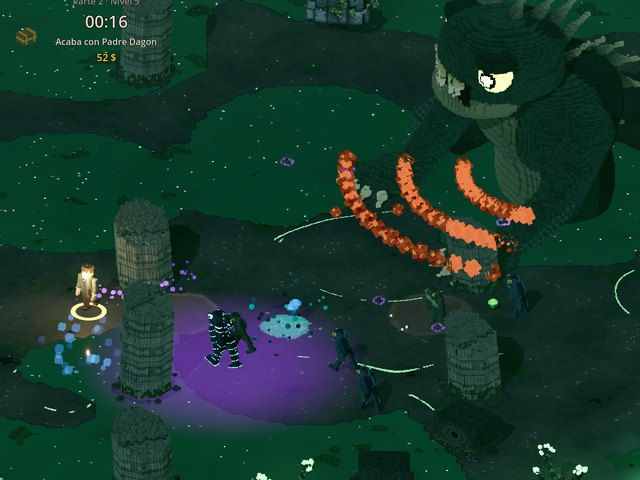
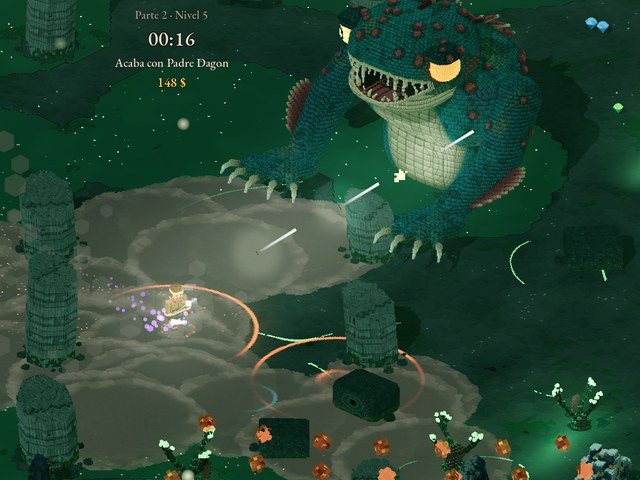
Ideas pendientes técnicas. tools/marcas.py: --juntar pone los registros de varios PC en una lista por hora, con los relojes igualados por las marcas comunes (mediana), --todo la lista entera, aviso de los registros sin «Fin de la sesión» y la captura de cada marca. La marca (F9, LB+RB) guarda una ca

diff --git a/tools/marcas.py b/tools/marcas.py
@@ -1,19 +1,36 @@
 """Marcas de los registros de red (F9 o LB+RB en partida), con las líneas de alrededor.
 
 Para revisar una prueba online: cada marca sale con unas líneas de antes (estado de la partida
-cada 5 s, paradas, quién entra o se va) y de después, fichero a fichero.
+cada 5 s, paradas, quién entra o se va) y de después, fichero a fichero. Avisa de los registros
+que no acaban en «Fin de la sesión» (el juego se cerró de golpe o sigue abierto) y dice dónde
+está la captura de cada marca, si la hay.
+
+Con --juntar, los registros de varios PC salen en una sola lista ordenada por hora, cada línea
+con la letra de su fichero. Los relojes de dos PC no van iguales: la diferencia se saca de las
+marcas, que se apuntan en todos («marca 3 del jugador · p1_n2 1:05» en uno y «marca 3 de Ana ·
+p1_n2 1:05» en el otro), y se corrige.
 
 Uso (desde la raíz):
     python tools/marcas.py                      # los registros de este PC (user://logs/red)
     python tools/marcas.py red_2026-10-23_*.log # los que te pasen (los de otro PC, por ejemplo)
     python tools/marcas.py --antes 12 --despues 6
+    python tools/marcas.py --juntar mio.log suyo.log          # los dos PC en una lista
+    python tools/marcas.py --juntar --todo mio.log suyo.log   # entera, no solo alrededor de las marcas
 """
 import argparse
+import datetime as dt
 import glob
 import os
+import re
+import statistics
 import sys
 
 APP = "Lovecraft Bullet Hell"
+END = "Fin de la sesión"
+LINE = re.compile(r"^\[(\d\d):(\d\d):(\d\d)\] (.*)$")
+STAMP = re.compile(r"red_(\d{4})-(\d\d)-(\d\d)_(\d\d)-(\d\d)-(\d\d)")
+# "marca 3 del jugador · p1_n2 1:05" (en su PC) o "marca 3 de Ana · p1_n2 1:05 (aquí: …)" (en los demás)
+MARK = re.compile(r"^marca (\d+) (?:del jugador|de .+?) · (.+?)(?: \(aquí: .*\))?$")
 
 
 def default_dir() -> str:
@@ -27,9 +44,63 @@ def default_dir() -> str:
 
 
 def is_mark(line: str) -> bool:
-    # "[hh:mm:ss] marca 3 del jugador · p1_n2 1:05" o "[...] marca 1 de Ana · ..."
     text = line.split("] ", 1)[-1]
     return text.startswith("marca ")
+
+
+def shot_of(path: str, line: str) -> str:
+    """Captura de una marca (la guarda el juego junto al registro: <registro>_marca_N.png)."""
+    m = MARK.match(line.split("] ", 1)[-1])
+    if not m or "del jugador" not in line:
+        return ""
+    p = "%s_marca_%s.png" % (os.path.splitext(path)[0], m.group(1))
+    return os.path.normpath(p) if os.path.exists(p) else ""
+
+
+def ended(lines: list) -> bool:
+    return any(END in l for l in lines[-3:])
+
+
+def parse(path: str) -> list:
+    """[(hora, texto, línea entera)]: la fecha sale del nombre del fichero y pasa de día si la hora vuelve atrás."""
+    with open(path, encoding="utf-8", errors="replace") as f:
+        lines = f.read().splitlines()
+    m = STAMP.search(os.path.basename(path))
+    day = dt.datetime(*map(int, m.groups())) if m else dt.datetime(2000, 1, 1)
+    day = day.replace(hour=0, minute=0, second=0)
+    out = []
+    prev = None
+    for l in lines:
+        lm = LINE.match(l)
+        if not lm:
+            continue
+        t = day + dt.timedelta(hours=int(lm.group(1)), minutes=int(lm.group(2)), seconds=int(lm.group(3)))
+        if prev is not None and t < prev - dt.timedelta(hours=1):     # medianoche
+            day += dt.timedelta(days=1)
+            t += dt.timedelta(days=1)
+        prev = t
+        out.append((t, lm.group(4), l))
+    return out
+
+
+def context(rows: list, before: int, after: int, mark_of) -> None:
+    marks = [i for i, r in enumerate(rows) if mark_of(r)]
+    shown = -1
+    for i in marks:
+        lo = max(i - before, shown + 1)
+        if lo > shown + 1 and shown >= 0:
+            print("   ...")
+        for k in range(lo, min(i + after + 1, len(rows))):
+            if k <= shown:
+                continue
+            yield_line(rows[k], mark_of(rows[k]))
+            shown = k
+
+
+def yield_line(row, marked: bool) -> None:
+    print((">> " if marked else "   ") + row[0])
+    if marked and row[1]:
+        print("      captura: " + row[1])
 
 
 def show(path: str, before: int, after: int) -> int:
@@ -39,18 +110,54 @@ def show(path: str, before: int, after: int) -> int:
     if not marks:
         return 0
     print(f"=== {os.path.basename(path)}  ({lines[0] if lines else ''})")
-    shown = -1
-    for i in marks:
-        lo = max(i - before, shown + 1)
-        if lo > shown + 1 and shown >= 0:
-            print("   ...")
-        for k in range(lo, min(i + after + 1, len(lines))):
-            if k <= shown:
-                continue
-            print((">> " if is_mark(lines[k]) else "   ") + lines[k])
-            shown = k
+    rows = [(l, shot_of(path, l)) for l in lines]
+    context(rows, before, after, lambda r: is_mark(r[0]))
     print()
     return len(marks)
+
+
+def offset(base: list, other: list) -> tuple:
+    """Cuánto hay que sumar a la hora de `other` para que vaya con `base`, y con cuántas marcas."""
+    def keys(rows):
+        d = {}
+        for t, text, _ in rows:
+            m = MARK.match(text)
+            if m:
+                d.setdefault((m.group(1), m.group(2)[:24]), t)
+        return d
+    a, b = keys(base), keys(other)
+    diffs = [(a[k] - b[k]).total_seconds() for k in a if k in b]
+    if not diffs:
+        return 0.0, 0
+    return statistics.median(diffs), len(diffs)
+
+
+def merge(files: list, before: int, after: int, everything: bool) -> None:
+    parsed = [parse(f) for f in files]
+    letters = [chr(ord("A") + i) for i in range(len(files))]
+    for i, f in enumerate(files):
+        head = parsed[i][0][1] if parsed[i] else ""
+        line = f"{letters[i]}: {os.path.basename(f)}  ({head})"
+        if i > 0:
+            off, n = offset(parsed[0], parsed[i])
+            if n:
+                parsed[i] = [(t + dt.timedelta(seconds=off), x, l) for t, x, l in parsed[i]]
+                line += f"  · reloj corregido {off:+.0f} s (por {n} marca{'s' if n != 1 else ''})"
+            else:
+                line += "  · sin marcas en común: horas tal cual (los relojes pueden no coincidir)"
+        print(line)
+    print()
+    rows = []
+    for i, p in enumerate(parsed):
+        for t, text, l in p:
+            rows.append((t, i, f"{letters[i]} {t:%H:%M:%S} {text}", shot_of(files[i], l)))
+    rows.sort(key=lambda r: (r[0], r[1]))
+    flat = [(r[2], r[3]) for r in rows]
+    if everything:
+        for r in flat:
+            yield_line(r, " marca " in r[0][:16])
+    else:
+        context(flat, before, after, lambda r: r[0].split(" ", 2)[2].startswith("marca "))
 
 
 def main() -> None:
@@ -60,6 +167,8 @@ def main() -> None:
     ap.add_argument("files", nargs="*", help="registros (por defecto, todos los de este PC)")
     ap.add_argument("--antes", type=int, default=8, help="líneas antes de cada marca (8)")
     ap.add_argument("--despues", type=int, default=3, help="líneas después de cada marca (3)")
+    ap.add_argument("--juntar", action="store_true", help="los registros de varios PC en una lista por hora")
+    ap.add_argument("--todo", action="store_true", help="con --juntar, la lista entera")
     a = ap.parse_args()
     files = []
     for f in a.files:
@@ -70,13 +179,23 @@ def main() -> None:
         if not files:
             print(f"No hay registros en {d}")
             return
-    total = 0
-    with_marks = 0
+    unfinished = []
     for f in files:
-        n = show(f, a.antes, a.despues)
-        total += n
-        with_marks += n > 0
-    print(f"{total} marcas en {with_marks} de {len(files)} registros")
+        with open(f, encoding="utf-8", errors="replace") as fh:
+            if not ended(fh.read().splitlines()):
+                unfinished.append(os.path.basename(f))
+    if a.juntar:
+        merge(files, a.antes, a.despues, a.todo)
+    else:
+        total = 0
+        with_marks = 0
+        for f in files:
+            n = show(f, a.antes, a.despues)
+            total += n
+            with_marks += n > 0
+        print(f"{total} marcas en {with_marks} de {len(files)} registros")
+    for f in unfinished:
+        print(f"Aviso: {f} no acaba en «{END}»: el juego se cerró de golpe (o sigue abierto).")
 
 
 if __name__ == "__main__":

diff --git a/CLAUDE.md b/CLAUDE.md
@@ -239,7 +239,7 @@ Tus imágenes en `resources/PantallasMenus/`: `fondo_titulo_sin_texto_1080p_defi
   - Guarda en un fichero temporal y lo renombra, para no dejar una partida a medias si el juego se cierra a mitad.
   - `SaveData` tiene número de versión y `migrate()`: si cambias el formato, sube `VERSION` y añade el paso de migración.
   - La partida guarda al caer, al superar el nivel, al reiniciar y al salir. Sin hueco elegido (arrancando la partida directamente) no se guarda nada.
-- **Nube** (`scripts/cloud/`, fase 10, D-11): copia de los tres huecos y los controles en un gist secreto del jugador. `GitHubGist` habla con GitHub (flujo por dispositivo y gists; transporte `CloudHttp`, cambiable por uno falso); el autoload `Cloud` guarda token, usuario, gist e id del PC en `user://cloud.json`, sincroniza (`sync`) por revisiones (`SaveData.rev` y `cloud_base`, `CloudSync.decide`: subir, bajar, borrar en la nube o conflicto), sube solo a los 2 s de cada guardado (`Saves.saved`, `Settings.controls_changed`) sin bajar nada encima del hueco en uso, y resuelve conflictos (`resolve`, que guarda aparte la partida descartada con `Saves.backup` en `slot_N.descartada_<fecha>.json`). Menús: pestaña Nube en Configuración, `CloudConnectMenu` (con un QR de la página, `QrCode` en `scripts/ui/qr_code.gd`), `CloudConflictMenu`, «Ver la copia en GitHub» (`Cloud.gist_url`) y estado en cada hueco. `client_id` en `data/cloud.json`. Pruebas: `cloud_check cloud_token=$(gh auth token) cloud_marker=lovecraft_prueba.json cloud_delete=true` contra GitHub y `cloud_demo=conectado|codigo|conflicto` para capturas sin red. Guía en `docs/GUARDADO_NUBE.md`.
+- **Nube** (`scripts/cloud/`, fase 10, D-11): copia de los tres huecos y los controles en un gist secreto del jugador. `GitHubGist` habla con GitHub (flujo por dispositivo y gists; transporte `CloudHttp`, cambiable por uno falso); el autoload `Cloud` guarda token, usuario, gist e id del PC en `user://cloud.json`, sincroniza (`sync`) por revisiones (`SaveData.rev` y `cloud_base`, `CloudSync.decide`: subir, bajar, borrar en la nube o conflicto), sube solo a los 2 s de cada guardado (`Saves.saved`, `Settings.controls_changed`) sin bajar nada encima del hueco en uso, y resuelve conflictos (`resolve`, que guarda aparte la partida descartada con `Saves.backup` en `slot_N.descartada_<fecha>.json`). Menús: pestaña Nube en Configuración, `CloudConnectMenu` (con un QR de la página, `QrCode` en `scripts/ui/qr_code.gd`), `CloudConflictMenu`, «Ver la copia en GitHub» (`Cloud.gist_url`) y estado en cada hueco. `client_id` en `data/cloud.json`. Pruebas: `cloud_check cloud_token=$(gh auth token) cloud_marker=lovecraft_prueba.json cloud_delete=true` contra GitHub y `cloud_demo=conectado|codigo|conflicto|bajadas` para capturas sin red. Guía en `docs/GUARDADO_NUBE.md`.
 - **Dispositivos y sesión:**
   - `Devices` (autoload en `scripts/input/device_manager.gd`) guarda el último dispositivo usado (`KEYBOARD` = −1, o el número del mando), avisa al conectar o desconectar un mando, crea la entrada de partida de un dispositivo (`make_input`) y define los colores de los jugadores (`COLORS`).
   - `GameSession` (estático, en `scripts/core/game_session.gd`) lleva de los menús a la partida quién juega (dispositivo, GUID, personaje y compañero) y en qué nivel. Vacía, la partida usa sus opciones de siempre.
@@ -258,7 +258,7 @@ Tus imágenes en `resources/PantallasMenus/`: `fondo_titulo_sin_texto_1080p_defi
   - `SlotMenu` (huecos), `MainMenu` (menú principal y ventana de Jugar) y `SettingsMenu` (pestañas).
   - `OptionRow` (`scripts/ui/`): fila con valor que se cambia con izquierda/derecha. La usan la configuración y la depuración.
   - La portada (`TitleScreen`) lleva el flujo: presentación, huecos y menú principal. `TitleScreen.skip_to_menu` hace que, al volver de la partida, entre directamente en el menú.
-- **Red** (`scripts/net/`, fase 9): `NetSession` (autoload `Net`) lleva la sala con ENet: anfitrión con autoridad, hasta 3 clientes, mensajes de bytes propios (`Net.send`, tipos desde `NetSession.USER`; sube `PROTOCOL` al cambiar cualquiera), lista de conectados con ping y versión (`application/config/version`, en el menú principal, la pausa y la sala, que no deja empezar si no coincide y avisa si el ping pasa de 250 ms; `sh tools/exportar.sh` pregunta si subirla: súbela en cada build que se reparta). `RoomCode` pasa IP y puerto a un código de 8 letras; `UpnpHelper` abre el puerto en el router. Menú en `scripts/menus/online_menu.gd` (con `RoomCodePicker` para el mando). La sala es la selección de personaje: `NetSelect` reparte el `SelectState` del anfitrión (perfil de desbloqueos por PC, `Seat.peer`) y START llena `GameSession` en cada PC (`peer`, `name`, `worn`, `my_peer`). En partida, `NetGame`: cada PC manda en sus jugadores (`Player.remote` para los de otros PC) y el anfitrión manda fotos del mundo a 20 Hz; en los invitados los enemigos son marionetas (`Enemy.puppet`) y el director es un espejo (`WaveDirector.mirror`); lo que llega se interpola 100 ms en el pasado (`NetInterp`). Las balas enemigas viajan al nacer y cada PC decide los golpes a sus jugadores (también el contacto de las marionetas); las gemas llevan id y semilla, y la experiencia y el progreso los reparte el anfitrión (`NetGame.apply_progress`); cada jugador usa la tienda de su PC (`Profile.shop`). Lo que hacen los enemigos (golpes en un círculo, sonidos, salpicaduras, temblores, gritos) pasa por `CombatWorld.strike`/`sfx`/`splash`… y sus avisos se crean con `Telegraph.enemy`: así se repiten en los invitados. Rompibles, recompensas, baúles y peligros también viajan (`mirror` en el invitado). `start_level=` empieza otro nivel desde la selección. Un PC que se va puede volver con la partida empezada (`NetSession.admit`, `GameSession.claim`): espera en la selección y entra al pasar de nivel con su progreso; si el anfitrión se va, el invitado ve la pantalla final (`game.net_closed`). Las subidas por turnos y la pausa paran la partida en todos los PC (`NetGame.halt_all`/`resume_all`): quien sube elige en su PC (PICK, `PlayerProgress.option_for`) y la pausa la pide cualquiera; si quien sube tarda, el anfitrión puede elegir por él; pruebas con `bots_pause=true`, `pick_after=`, `pause_at=t,dur`, `halt_shots=true`, `afk_pick=` y `afk_press=true`. Flechas hacia los de otros PC que no se ven (`OffscreenArrows`), PC y ping en sus paneles (`Hud.net_info`) y «Sin noticias del anfitrión…» tras 2 s sin fotos (y a los 10 s, botón de salir); pruebas con `snap_gap=t,dur` y `down_at=t`. ENet comprime con range coder (`net_compress=` para comparar); `log=true` da cada 5 s lo que sale a cada PC y, al salir, media, pico y reparto por tipo; `prof=true` separa `red_envia`, `red_foto` y `red_recibe`. Cada sesión deja su registro en `user://logs/red/` (`NetLog`, `Net.netlog`; los 10 últimos), con botón para abrir la carpeta en *Jugar online*. Guía para jugadores en `docs/JUGAR_ONLINE.md` y lista para la prueba por internet en `docs/PRUEBA_ONLINE.md`. Pruebas con dos ventanas: `select net_host=true net_upnp=false net_name=A` y `select net_join=127.0.0.1 net_name=B` (con `acts=` —`2:join` pulsa con un segundo jugador de prueba de ese PC—, `auto_start=true`, `net_wait=1`, `net_players=N`, `skip_relato=true`, `bot=smart`, `log=true` y `game_shots=`); `net_lag=` y `net_loss=` simulan latencia y pérdida; F9 o LB+RB mantenidos (o `mark_at=t`) apuntan una marca en el registro de todos los PC; `python tools/marcas.py [registros]` las saca con su contexto.
+- **Red** (`scripts/net/`, fase 9): `NetSession` (autoload `Net`) lleva la sala con ENet: anfitrión con autoridad, hasta 3 clientes, mensajes de bytes propios (`Net.send`, tipos desde `NetSession.USER`; sube `PROTOCOL` al cambiar cualquiera), lista de conectados con ping y versión (`application/config/version`, en el menú principal, la pausa y la sala, que no deja empezar si no coincide y avisa si el ping pasa de 250 ms; `sh tools/exportar.sh` pregunta si subirla: súbela en cada build que se reparta). `RoomCode` pasa IP y puerto a un código de 8 letras; `UpnpHelper` abre el puerto en el router. Menú en `scripts/menus/online_menu.gd` (con `RoomCodePicker` para el mando). La sala es la selección de personaje: `NetSelect` reparte el `SelectState` del anfitrión (perfil de desbloqueos por PC, `Seat.peer`) y START llena `GameSession` en cada PC (`peer`, `name`, `worn`, `my_peer`). En partida, `NetGame`: cada PC manda en sus jugadores (`Player.remote` para los de otros PC) y el anfitrión manda fotos del mundo a 20 Hz; en los invitados los enemigos son marionetas (`Enemy.puppet`) y el director es un espejo (`WaveDirector.mirror`); lo que llega se interpola 100 ms en el pasado (`NetInterp`). Las balas enemigas viajan al nacer y cada PC decide los golpes a sus jugadores (también el contacto de las marionetas); las gemas llevan id y semilla, y la experiencia y el progreso los reparte el anfitrión (`NetGame.apply_progress`); cada jugador usa la tienda de su PC (`Profile.shop`). Lo que hacen los enemigos (golpes en un círculo, sonidos, salpicaduras, temblores, gritos) pasa por `CombatWorld.strike`/`sfx`/`splash`… y sus avisos se crean con `Telegraph.enemy`: así se repiten en los invitados. Rompibles, recompensas, baúles y peligros también viajan (`mirror` en el invitado). `start_level=` empieza otro nivel desde la selección. Un PC que se va puede volver con la partida empezada (`NetSession.admit`, `GameSession.claim`): espera en la selección y entra al pasar de nivel con su progreso; si el anfitrión se va, el invitado ve la pantalla final (`game.net_closed`). Las subidas por turnos y la pausa paran la partida en todos los PC (`NetGame.halt_all`/`resume_all`): quien sube elige en su PC (PICK, `PlayerProgress.option_for`) y la pausa la pide cualquiera; si quien sube tarda, el anfitrión puede elegir por él; pruebas con `bots_pause=true`, `pick_after=`, `pause_at=t,dur`, `halt_shots=true`, `afk_pick=` y `afk_press=true`. Flechas hacia los de otros PC que no se ven (`OffscreenArrows`), PC y ping en sus paneles (`Hud.net_info`) y «Sin noticias del anfitrión…» tras 2 s sin fotos (y a los 10 s, botón de salir); pruebas con `snap_gap=t,dur` y `down_at=t`. ENet comprime con range coder (`net_compress=` para comparar); `log=true` da cada 5 s lo que sale a cada PC y, al salir, media, pico y reparto por tipo; `prof=true` separa `red_envia`, `red_foto` y `red_recibe`. Cada sesión deja su registro en `user://logs/red/` (`NetLog`, `Net.netlog`; los 10 últimos), con botón para abrir la carpeta en *Jugar online*. Guía para jugadores en `docs/JUGAR_ONLINE.md` y lista para la prueba por internet en `docs/PRUEBA_ONLINE.md`. Pruebas con dos ventanas: `select net_host=true net_upnp=false net_name=A` y `select net_join=127.0.0.1 net_name=B` (con `acts=` —`2:join` pulsa con un segundo jugador de prueba de ese PC—, `auto_start=true`, `net_wait=1`, `net_players=N`, `skip_relato=true`, `bot=smart`, `log=true` y `game_shots=`); `net_lag=` y `net_loss=` simulan latencia y pérdida; F9 o LB+RB mantenidos (o `mark_at=t`) apuntan una marca en el registro de todos los PC; `python tools/marcas.py [registros]` las saca con su contexto y su captura (`<registro>_marca_N.png`); `--juntar` pone los registros de varios PC en una lista por hora con los relojes igualados por las marcas.
 - **Música** (`Music`, autoload en `scripts/core/music.gd`): sobrevive a los cambios de escena, funde una pista con la siguiente y no corta la que ya suena si se vuelve a pedir (al reiniciar). `mute=true` la silencia; úsalo en bots y capturas.
 - **Depuración** (`DebugOptions` en `scripts/core/debug_options.gd`, `DebugMenu` en `scripts/ui/debug_menu.gd`): los ajustes van en una variable estática, así que sobreviven a `reload_current_scene`; `game.gd` los aplica al montar la partida (`DebugOptions.apply_all`).
   - Las pasivas se rehacen desde el personaje original (`rebuild_stats`), así que también se pueden bajar.

diff --git a/docs/ESTADO.md b/docs/ESTADO.md
@@ -1119,19 +1119,24 @@ Detalle de lo hecho en cada fase e hito, sacado de `CLAUDE.md` el 17-10-2026 par
     - **En calidad Baja, sin huellas de enemigos** (`enemy_prints` en `data/quality.json`; `Ambient` ni los recorre). Las de los jugadores se quedan.
     - Tests: dos más (Baja sin huellas de enemigos; cada suelo de las 15 arenas tiene su sonido de aparición). En total, 458 de 458. `tools/render_mapa.gd` sigue compilando con `Ambient`.
 
+- **Ideas pendientes técnicas (28-10-2026), pendientes de tu revisión** (elegidas por el autor de la lista de abajo; queda sin hacer el bigote de morsa de Elwood, que es cuestión de gusto):
+  - **`tools/marcas.py`:** `--juntar` pone los registros de varios PC en una sola lista ordenada por hora, cada línea con la letra de su fichero (`--todo` para la lista entera y no solo alrededor de las marcas). Los relojes de dos PC no van iguales: la diferencia sale de las marcas, que se apuntan en todos («marca 1 del jugador · p1_n1 0:05» en uno y «marca 1 de Ana · p1_n1 0:05» en el otro), con la mediana de los pares, y se corrige («reloj corregido −7 s, por 2 marcas»). Avisa de los registros que no acaban en «Fin de la sesión» (el juego se cerró de golpe o sigue abierto) y dice la captura de cada marca. Probado con anfitrión e invitado en este PC (`mark_at=6` y `mark_at=9`) y con una copia del registro del invitado adelantada 7 s.
+  - **Captura de cada marca:** al marcar (F9, LB+RB), una captura de 640 px de lo que se veía, junto al registro (`<registro>_marca_N.png`, en otro hilo para no dar tirón; `Game._mark_shot`). Al borrar un registro viejo se borran sus capturas.
+  - **Avisos «Interpolated instance triggered from outside physics process»:** no eran solo las recompensas. Buscados en los 15 niveles con bots (`timescale=3`): aves, faroles, boyas y huellas del ambiente (`Ambient` entero sin interpolación, y las piezas del escenario que mueve: luces de llama, lo que flota, faroles que se mecen), recompensas (`Pickup`), anillo del jugador (su latido al recoger gemas va ahora en la física), manchas (`GroundMarks`), estallido de muerte (`DeathBurst`), polvo y destellos (`VoxelFx.ground_hit` y `puff`), salpicaduras (`WadeSplash`) y el modelo que se desmorona (`Crumble`: al cambiarlo de padre con `reparent` no se enteraba de que el nuevo no interpola). Las recompensas ya no avisan. Quedan avisos sueltos (uno por partida, que es lo que enseña Godot) de efectos que se crean fuera de la física: hay 98 sitios que añaden efectos a `world.fx` y Godot solo dice el primero de cada ejecución, así que no compensa seguirlos uno a uno; son inofensivos (el efecto no se mueve).
+  - **Nube:** al conectar, la ventana dice lo que ha hecho antes de cerrarse: «Se han bajado 2 partidas de la nube.», «Se ha subido 1 de este PC.» o «La nube ya estaba al día.» (`Cloud.last_down`, `last_up`, `sync_report`). Captura sin red con `cloud_demo=bajadas` (se conecta sola a los 1,5 s y baja dos de mentira): `title saves=demo_saves open=menu_config tab=4 cloud_demo=bajadas`.
+  - **README:** imagen nueva de Padre Dagon (`docs/img/jefe_dagon.jpg`, en la pelea, con la boca abierta).
+  - Tests: uno más de la nube (lo que se baja y se sube). En total, 459 de 459.
+
 ## Ideas propuestas y sin hacer (23-10-2026)
 
 Ofrecidas al autor al cerrar las mejoras de la prueba online; las pidió subir a GitHub sin hacerlas. Ofrécelas de nuevo si vuelve a ese tema:
-- `tools/marcas.py`: juntar los registros de los dos PC en una sola lista ordenada por hora.
-- La marca (F9, LB+RB) guarda una captura pequeña en la carpeta de registros.
-- `tools/marcas.py` avisa si un registro no tiene «Fin de la sesión» (el juego se cerró de golpe).
+- (Las tres, hechas el 28-10-2026: ver «Ideas pendientes técnicas».)
 
 Ofrecidas al cerrar las cabezas nuevas de los trece personajes (23-10-2026):
 - Elwood con bigote de morsa, más británico, en vez del militar ancho.
 
 Ofrecidas al cerrar el rediseño de Padre Dagon (23-10-2026):
-- Imagen nueva de Dagon en el README (la de `docs/img` enseña la de antes).
-- Avisos «Interpolated instance triggered from outside physics process» de las recompensas de comida y de poción, vistos en la partida de prueba del 23-10-2026: Godot los da por probablemente inofensivos, pero ensucian la salida.
+- (Las dos, hechas el 28-10-2026.)
 
 Ofrecidas al cerrar la fase 10 (26-10-2026):
-- Al conectar, si la nube tiene partidas y este PC no, decirlo en la ventana («Se han bajado 2 partidas»).
+- (Hecha el 28-10-2026.)

diff --git a/docs/LECCIONES.md b/docs/LECCIONES.md
@@ -141,3 +141,4 @@ Sacadas de `CLAUDE.md` el 17-10-2026. Léelas antes de tocar generadores de mode
 - **Efectos al nacer un enemigo, solo a la vista:** el director los hace aparecer fuera de cámara, así que el polvo o la salpicadura casi nunca se ven y, con muchas apariciones, cuestan (0,7 ms con 80 enemigos en el pantano). `Camera3D.is_position_in_frustum` del pie y de la cabeza antes de crearlos.
 - **Lo que congela a un enemigo, por la física:** si la espera dependiera de `_process`, un test que solo avanza la física (o algo que deje de dibujarse) lo dejaría quieto para siempre. La aparición lleva su tiempo de juego aparte (`_rise_wait`).
 - **Comandos con muchas comillas o tildes:** el heredoc de Bash a veces falla con «unexpected EOF» en scripts largos de Python; escríbelos con la herramienta de escribir en el scratchpad y ejecútalos.
+- **Avisos «Interpolated instance triggered from outside physics process»:** salen cuando algo que interpola cambia de transformada fuera de la física (en `_process`, un `reparent`, un efecto que se coloca después de añadirlo). Godot avisa solo de la primera vez, así que se arreglan de uno en uno: partidas con bots en los 15 niveles (`timescale=3 perf=45`) y `grep` del aviso. Lo que no se mueve en la física (efectos, ambiente, recompensas) va con `physics_interpolation_mode = OFF` antes de añadirlo; lo que va dentro de algo que se interpola (el anillo del jugador) se cambia en la física. Al cambiar de padre con `reparent` a un nodo que no interpola, el modelo no siempre se entera: ponle `OFF` a él mismo antes.

diff --git a/docs/PRUEBA_ONLINE.md b/docs/PRUEBA_ONLINE.md
@@ -37,5 +37,5 @@ Mirad en cada PC y apuntad cualquier cosa rara:
 
 ## Después
 
-- [ ] Cada uno abre *Jugar online → Abrir la carpeta de registros de conexión* y me pasa los registros de la prueba (`python tools/marcas.py` los resume: cada marca con lo que pasaba alrededor) (`red_<fecha>.log`) y, si hubo algún error, también `godot.log` (la carpeta de arriba).
+- [ ] Cada uno abre *Jugar online → Abrir la carpeta de registros de conexión* y me pasa los registros de la prueba (`python tools/marcas.py` los resume: cada marca con lo que pasaba alrededor y su captura; `python tools/marcas.py --juntar mio.log suyo.log` pone los dos PC en una sola lista por hora, con los relojes igualados por las marcas, y avisa de los registros que no acaban en «Fin de la sesión») (`red_<fecha>.log`) y, si hubo algún error, también `godot.log` (la carpeta de arriba).
 - [ ] Cuando veáis algo raro, pulsad **F9** o mantened **LB+RB** en el mando (apunta una marca con el nivel y el minuto en los registros de todos los PC, sin parar la partida; comprobad que con el mando sale el aviso «Marca apuntada») y decid por voz qué era. Si no, la hora aproximada: el registro tiene la hora en cada línea, y cada 5 s el estado de la partida, el ping y lo que se manda.
